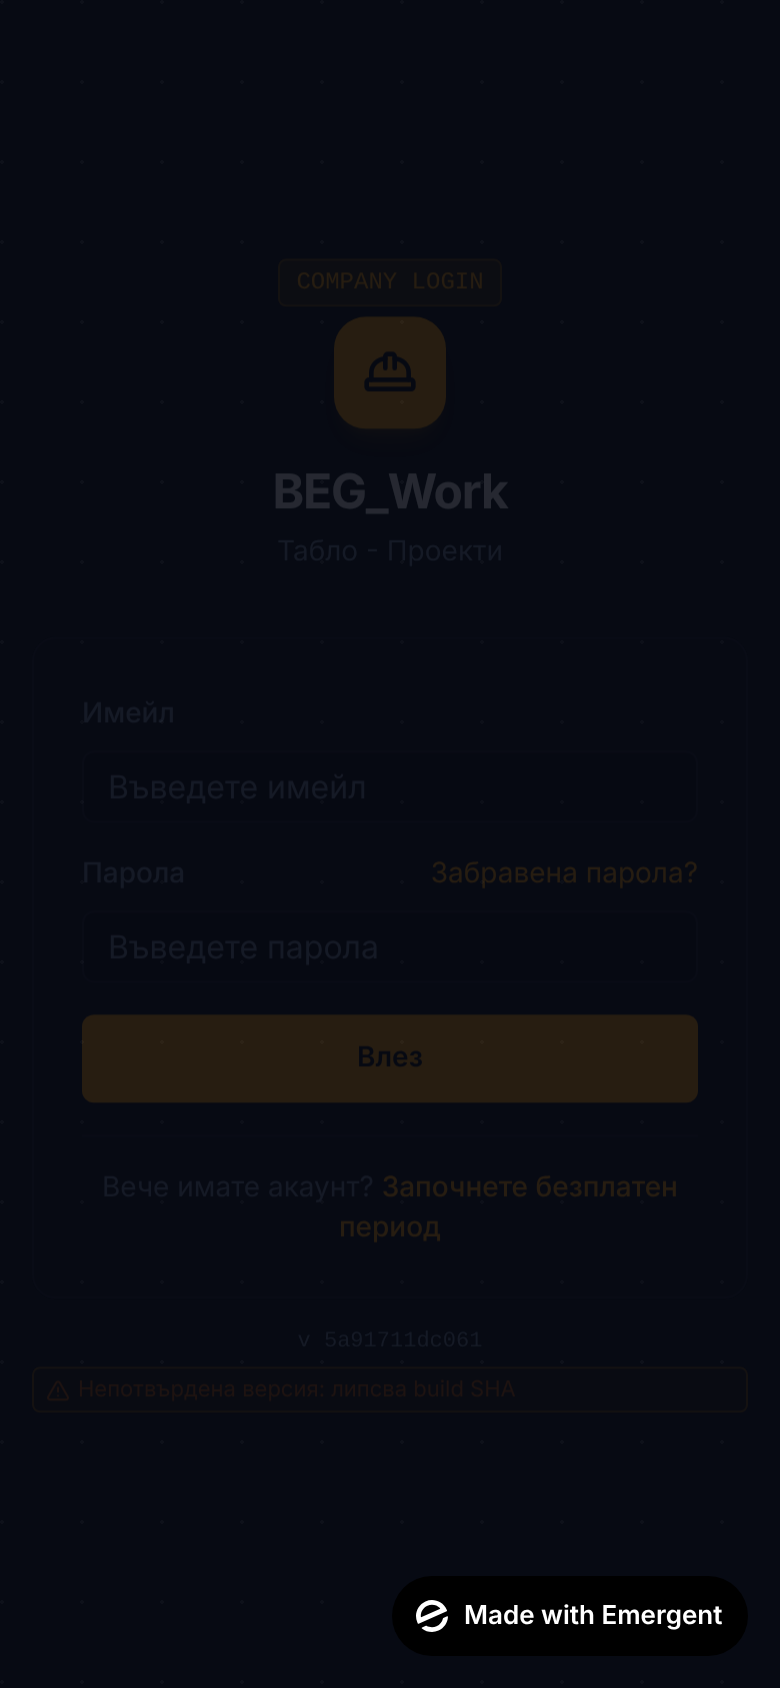
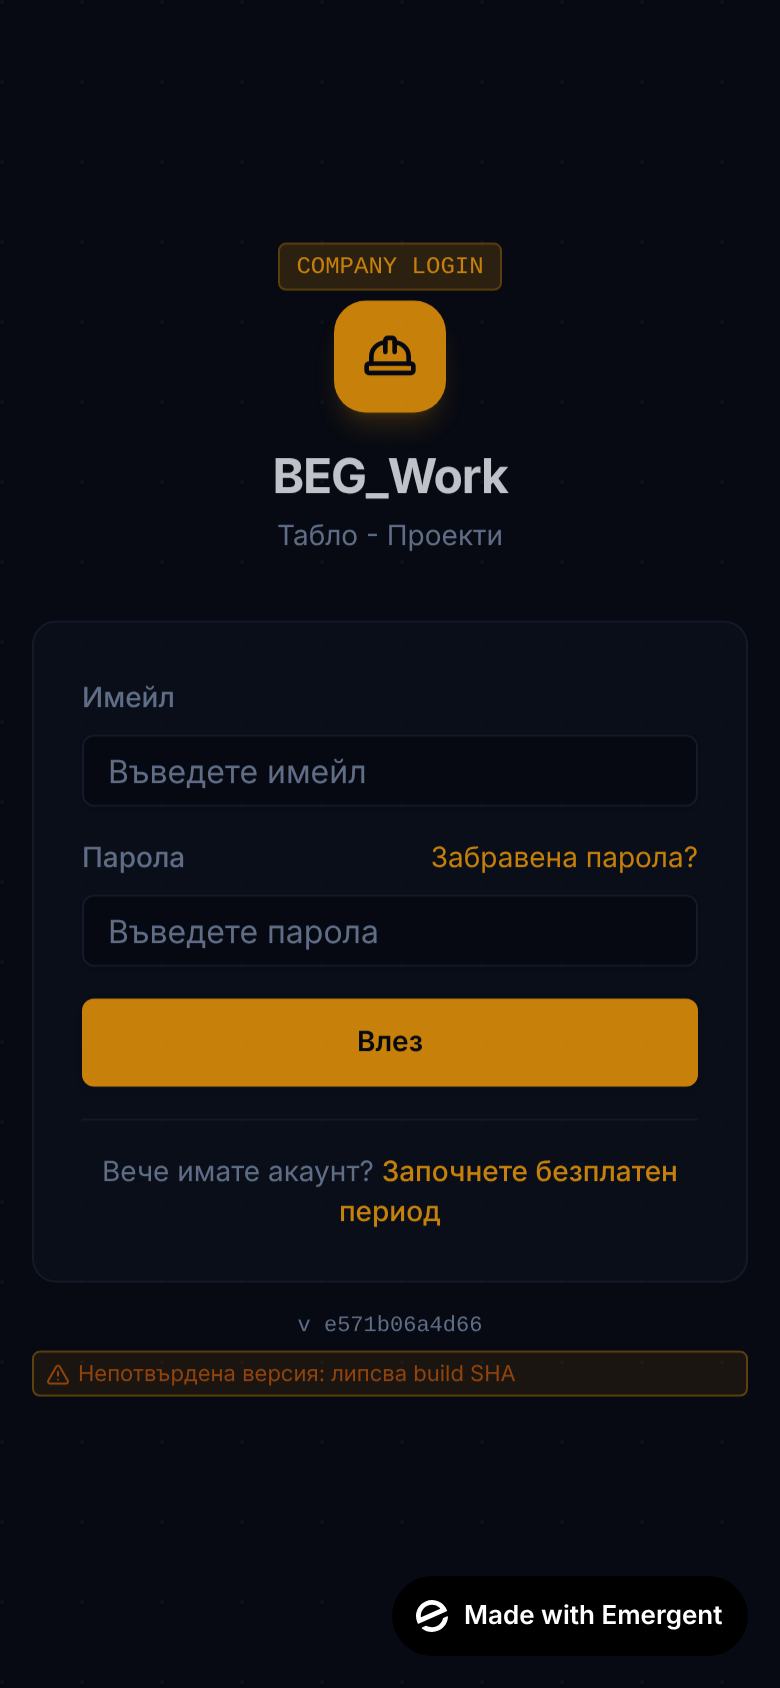
PWA-01 D1: evidence red (a05167a) -> green, refreshed screenshots and cache check

diff --git a/docs/evidence/PWA-01/e2e/run.js b/docs/evidence/PWA-01/e2e/run.js
@@ -158,7 +158,8 @@ const shot = (page, name) => page.screenshot({ path: path.join(OUT, name) });
     (await page.getByTestId("dashboard-layout").count()) === 1 && (await page.getByTestId("login-page").count()) === 0);
 
   // ── Logout clears local data ─────────────────────────────────────────────
-  await login(page, "a@example.test");
+  await page.goto(`${BASE}/tech`);
+  await page.getByTestId("dashboard-layout").waitFor();
   await page.evaluate(async () => {
     localStorage.setItem("tenant_a_draft", "{\"note\":\"чернова\"}");
     sessionStorage.setItem("tenant_a_session", "x");

diff --git a/docs/evidence/PWA-01/README.md b/docs/evidence/PWA-01/README.md
@@ -9,7 +9,7 @@
   `REACT_APP_BUILD_SHA` = commit-а на кода (виж `cache-check.json` → `service_worker.version`).
 - `e2e/server.js` сервира build-а като `nginx.conf` (SPA fallback; `/api`, `/uploads` → mock backend).
 - `e2e/run.js` — Playwright с предварително инсталирания Chromium (без `playwright install`).
-  Резултат: **32 PASS / 0 FAIL**, пълни данни в `cache-check.json`.
+  Резултат: **35 PASS / 0 FAIL** (след D1 fix), пълни данни в `cache-check.json`.
 - Скрийншоти: deviceScaleFactor 2; телефон 390×844 (Android UA и iOS Safari UA), десктоп 1366×820.
 
 ```
@@ -54,10 +54,14 @@ node docs/evidence/PWA-01/e2e/run.js http://localhost:4173 docs/evidence/PWA-01
 - [ ] **Реално устройство** (Android Chrome „Инсталирай“, iOS Safari „Добави към началния екран“) — за Крум
 
 ## Дългове (не са поправени — изискват решение на Крум)
-- **D1 — офлайн презареждане губи сесията (съществуващо поведение).** `AuthContext.fetchUser` трие
-  `bw_token` при *всяка* грешка, включително липса на мрежа. Затова офлайн обвивката показва вход, а
-  не таблото (`cache-check.json → debt_d1_offline_reload_token: "dropped"`). Предложение: трий токена
-  само при 401. Предпоставка за PWA-02.
+- **D1 — ПОПРАВЕН (одобрено от Крум, commit `e571b06`).** Преди: `AuthContext.fetchUser` триеше
+  `bw_token` при всяка грешка → офлайн презареждане изхвърляше потребителя. Сега сесията се прекратява
+  само при 401 (и 403 от `/auth/me`); при мрежова грешка/5xx токенът остава, потребителят се възстановява
+  от `bw_user` (без кеширане на `/api`), показва се лентата „Без връзка“. `logout()` изчаква изчистването
+  на кешовете. Доказателство red → green в `d1/`:
+  `jest-red-a05167a.log` (5 ✕), `playwright-red-a05167a.log` (3 FAIL) → `jest-green.log`,
+  `playwright-green.log` (35/35). Остатък: `PlatformAuthProvider` (платформен админ) има същия catch-all —
+  извън обхвата, не е пипан.
 - **D2 — няма UI за смяна на tenant.** Смяната се засича по `organization.id` при вход/зареждане на
   сесия (маркер `bw_pwa_tenant`). Бъдещият превключвател трябва да вика `noteActiveTenant` /
   `clearTenantLocalData` от `src/lib/pwa/clearLocalData.js`.
